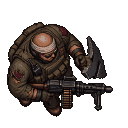
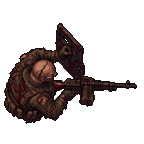
feat: VIPER and THE WARLORD top-down art, aim line and tracer start at the muzzle (§16.16, §16.11) (#62)
* art: VIPER and Warlord redrawn top-down (rotate freely); pivots and muzzle pixels in docs/art/*_meta.json

* art: Warlord phase 3 face turned toward aim; pivot now (31,86)

* feat: VIPER and THE WARLORD top-down art, plain rotation, aim line and tracer from the muzzle (§16.16, §16.11)

* fix: VIPER and THE WARLORD fire from the drawn muzzle, no unseen rounds (§16.16, §16.11)

---------

diff --git a/src/render/renderer.ts b/src/render/renderer.ts
@@ -14,6 +14,7 @@ import { BONE_WHITE, innerWhite, outlined, silhouette } from './bake';
 import { bossFlashAlpha } from './boss-flash';
 import { smokeAlpha, smokeScale } from './smoke';
 import { CRATER_LOOK, HAMMER_CHARGE_FRAME_MS, craterAlpha, hammerRotation } from './hammer';
+import { muzzleAt, streakFromMuzzle, type Muzzle } from './muzzle';
 import { DamageNumbers } from './damage-numbers';
 
 const ART = [
@@ -235,8 +236,8 @@ const BOSS_ART: Record<Target['style'], BossArt> = {
     open: 'hammer_t1_open_00',
   },
   gunner: {
-    size: 96,
-    pivot: { x: 30, y: 48 },
+    size: 148,
+    pivot: { x: 36, y: 72 },
     idle: 'viper_t1_idle_00',
     walk: ['viper_t1_walkA_00', 'viper_t1_idle_00', 'viper_t1_walkB_00', 'viper_t1_idle_00'],
     windup: null,
@@ -252,8 +253,8 @@ const BOSS_ART: Record<Target['style'], BossArt> = {
     open: null,
   },
   warlord: {
-    size: 128,
-    pivot: { x: 52, y: 64 },
+    size: 144,
+    pivot: { x: 31, y: 86 },
     idle: 'warlordfinal_t1_idle_00',
     walk: ['warlordfinal_t1_walkA_00', 'warlordfinal_t1_idle_00', 'warlordfinal_t1_walkB_00', 'warlordfinal_t1_idle_00'],
     windup: 'warlordfinal_t1_windup_00',
@@ -348,6 +349,8 @@ export class Renderer {
   private pickups!: Pool;
   private enemies!: Pool;
   private enemyBullets!: Pool;
+  /** The boss's muzzle this frame (overhead art: the gun reaches past his body), for the aim line and tracer. */
+  private muzzle: Muzzle | null = null;
   private bullets!: Pool;
   private blasts!: Pool;
   private mines!: Pool;
@@ -515,6 +518,7 @@ export class Renderer {
     const fl = this.warlordFlash;
     s.visible = !!b && b.hp > 0;
     fl.visible = false;
+    this.muzzle = null;
     if (!b || b.hp <= 0) return;
     const set = BOSS_ART[BOSSES[b.target].style];
     let art: ArtId;
@@ -557,13 +561,14 @@ export class Renderer {
       fl.anchor.set(set.pivot.x / set.size, set.pivot.y / set.size);
     }
     const r = bossRadius(b);
+    this.muzzle = muzzleAt(art, s.x, s.y, s.rotation);
     if (b.aimT >= 0) {
       // The aim line (Artist, PR #23): 1 px #FF4A1C, half alpha while it tracks, full alpha once locked.
       const locked = b.aimT >= VIPER.burst.trackSec;
       const len = 320;
       this.fx
         // Pixel centres (+0.5): a 1 px line on whole-pixel edges falls between pixels and vanishes without antialiasing.
-        .moveTo(Math.round(b.x + b.aimX * r) + 0.5, Math.round(b.y + b.aimY * r) + 0.5)
+        .moveTo(Math.round(this.muzzle?.x ?? b.x + b.aimX * r) + 0.5, Math.round(this.muzzle?.y ?? b.y + b.aimY * r) + 0.5)
         .lineTo(Math.round(b.x + b.aimX * len) + 0.5, Math.round(b.y + b.aimY * len) + 0.5)
         .stroke({ color: TELEGRAPH_COLOR, width: 1, alpha: locked ? 1 : 0.5 });
     }
@@ -628,7 +633,9 @@ export class Renderer {
     for (const b of w.enemyBullets) {
       if (!b.tracer) continue;
       const sp = Math.hypot(b.vx, b.vy) || 1;
-      const len = VIPER.tracerLen;
+      // Sim rounds leave his body centre; the streak (and the round, below) starts at the rifle's muzzle.
+      const len = this.muzzle ? streakFromMuzzle(b.x, b.y, b.vx, b.vy, this.muzzle, VIPER.tracerLen) : VIPER.tracerLen;
+      if (len <= 0) continue;
       const x0 = Math.round(b.x);
       const y0 = Math.round(b.y);
       const x1 = Math.round(b.x - (b.vx / sp) * len);
@@ -774,7 +781,12 @@ export class Renderer {
     this.drawSmokes(w);
     this.drawTracers(w);
 
-    w.enemyBullets.forEach((b, i) => this.enemyBullets.get(i, this.tex.bullet_enemy_00).position.set(Math.round(b.x), Math.round(b.y)));
+    const m = this.muzzle;
+    w.enemyBullets.forEach((b, i) => {
+      const sp = this.enemyBullets.get(i, this.tex.bullet_enemy_00);
+      sp.position.set(Math.round(b.x), Math.round(b.y));
+      sp.visible = !(b.tracer && m && streakFromMuzzle(b.x, b.y, b.vx, b.vy, m, 1) < 0); // still inside VIPER's rifle
+    });
     this.enemyBullets.hideFrom(w.enemyBullets.length);
     w.bullets.forEach((b, i) => this.bullets.get(i, this.tex.bullet_player_00).position.set(Math.round(b.x), Math.round(b.y)));
     this.bullets.hideFrom(w.bullets.length);

diff --git a/src/render/muzzle.ts b/src/render/muzzle.ts
@@ -1,0 +1,52 @@
+import viperMeta from '../../docs/art/viper_meta.json';
+import warlordMeta from '../../docs/art/warlord_meta.json';
+
+/**
+ * Where each gun frame's barrel ends (Artist, art/bosses-topdown: docs/art/*_meta.json). Sprites are drawn from
+ * overhead facing right at rotation 0, so the aim line and VIPER's tracer start at the muzzle, not at the body.
+ */
+interface ArtMeta {
+  size: number;
+  pivot: number[];
+  frames: Record<string, { muzzle?: number[] }>;
+}
+const META: ArtMeta[] = [viperMeta, warlordMeta];
+export const BOSS_MUZZLE: Record<string, [number, number]> = {};
+for (const m of META)
+  for (const [id, f] of Object.entries(m.frames)) if (f.muzzle) BOSS_MUZZLE[id] = [f.muzzle[0] - m.pivot[0], f.muzzle[1] - m.pivot[1]];
+
+/** A muzzle point in world space, with the body pivot (ox, oy) it hangs off. */
+export interface Muzzle {
+  x: number;
+  y: number;
+  ox: number;
+  oy: number;
+}
+
+/** The muzzle of frame `art` in world space, for a sprite at (x, y) turned by `rotation`; null when it has no gun. */
+export function muzzleAt(art: string, x: number, y: number, rotation: number): Muzzle | null {
+  const o = BOSS_MUZZLE[art];
+  if (!o) return null;
+  const c = Math.cos(rotation);
+  const s = Math.sin(rotation);
+  return { x: x + o[0] * c - o[1] * s, y: y + o[0] * s + o[1] * c, ox: x, oy: y };
+}
+
+/**
+ * How much of a round's trailing streak to draw: up to `len`, but never back past the muzzle it left. Negative while
+ * the round is still behind the muzzle (the sim fires from his body centre), and then it isn't drawn at all.
+ */
+export function streakFromMuzzle(
+  bx: number,
+  by: number,
+  vx: number,
+  vy: number,
+  muzzle: { x: number; y: number; ox: number; oy: number },
+  len: number,
+): number {
+  // Only rounds that just left him: one far out keeps its full streak even after he turns or teleports.
+  if (Math.hypot(bx - muzzle.ox, by - muzzle.oy) > Math.hypot(muzzle.x - muzzle.ox, muzzle.y - muzzle.oy) + len) return len;
+  const sp = Math.hypot(vx, vy) || 1;
+  const t = ((bx - muzzle.x) * vx + (by - muzzle.y) * vy) / sp;
+  return Math.min(len, t);
+}

diff --git a/tests/muzzle.test.ts b/tests/muzzle.test.ts
@@ -1,0 +1,35 @@
+import { describe, expect, it } from 'vitest';
+import viperMeta from '../docs/art/viper_meta.json';
+import { BOSS_MUZZLE, muzzleAt, streakFromMuzzle } from '../src/render/muzzle';
+
+describe('boss muzzle points (art/bosses-topdown)', () => {
+  it('has a muzzle for every VIPER and Warlord gun frame', () => {
+    expect(Object.keys(BOSS_MUZZLE).filter((k) => k.startsWith('viper_')).length).toBe(Object.keys(viperMeta.frames).length);
+    expect(BOSS_MUZZLE.warlordfinal_t1_aim_00).toBeDefined();
+  });
+  it('turns with the sprite', () => {
+    const [ox, oy] = BOSS_MUZZLE.viper_t1_fire_00;
+    const r = muzzleAt('viper_t1_fire_00', 0, 0, 0)!;
+    expect(r.x).toBeCloseTo(ox);
+    expect(r.y).toBeCloseTo(oy);
+    const d = muzzleAt('viper_t1_fire_00', 10, 20, Math.PI / 2)!;
+    expect(d.x).toBeCloseTo(10 - oy);
+    expect(d.y).toBeCloseTo(20 + ox);
+    expect(muzzleAt('hammer_t1_idle_00', 0, 0, 0)).toBeNull();
+  });
+  it('never trails a round back past the muzzle', () => {
+    const m = { x: 100, y: 0, ox: 0, oy: 0 };
+    expect(streakFromMuzzle(90, 0, 5, 0, m, 30)).toBeLessThan(0); // still inside the rifle
+    expect(streakFromMuzzle(110, 0, 5, 0, m, 30)).toBeCloseTo(10);
+    expect(streakFromMuzzle(300, 0, 5, 0, m, 30)).toBe(30);
+    expect(streakFromMuzzle(-300, 0, -5, 0, m, 30)).toBe(30); // a round fired before he turned keeps its streak
+  });
+});
+
+describe('boss rounds leave the drawn muzzle (Designer: no unseen bullets)', () => {
+  it('matches the fire and aim frames in the art meta', async () => {
+    const { BOSSES } = await import('../src/data/boss');
+    expect(BOSSES.find((t) => t.style === 'gunner')!.muzzle).toEqual(BOSS_MUZZLE.viper_t1_fire_00);
+    expect(BOSSES.find((t) => t.style === 'warlord')!.muzzle).toEqual(BOSS_MUZZLE.warlordfinal_t1_aim_00);
+  });
+});

diff --git a/src/data/boss.ts b/src/data/boss.ts
@@ -8,6 +8,8 @@ export interface Target {
   damageScale: number; // charge, bullet and mine damage (contact damage is set per attack style)
   final: boolean; // killing him ends the contract
   style: 'charger' | 'gunner' | 'warlord'; // which attack set he fights with
+  /** His rounds leave the gun's muzzle, this far ahead of (x) and beside (y) his body pivot at facing 0 (Artist's overhead art, docs/art/*_meta.json). */
+  muzzle?: [number, number];
   radius: number; // body and hit radius, px (scales with his sprite: 30 for 96x96)
   arenaScale?: number; // design.md 16.16: arena size vs the screen (default 1 = frozen cam; >1 = a big arena the camera follows)
 }
@@ -18,8 +20,18 @@ export interface Target {
 export const BOSSES: Target[] = [
   { name: 'LT. HAMMER', atSec: 300, hp: 7000, damageScale: 1, final: false, style: 'charger', radius: 30 },
   // design.md 16.16: VIPER fights in a big arena — a sniper you hunt across open ground (camera follows).
-  { name: 'LT. VIPER', atSec: 540, hp: 13000, damageScale: 1.25, final: false, style: 'gunner', radius: 16, arenaScale: 2.6 },
-  { name: 'THE WARLORD', atSec: 780, hp: 45000, damageScale: 1.5, final: true, style: 'warlord', radius: 40 }, // 128x128
+  {
+    name: 'LT. VIPER',
+    atSec: 540,
+    hp: 13000,
+    damageScale: 1.25,
+    final: false,
+    style: 'gunner',
+    radius: 16,
+    arenaScale: 2.6,
+    muzzle: [93, -5],
+  },
+  { name: 'THE WARLORD', atSec: 780, hp: 45000, damageScale: 1.5, final: true, style: 'warlord', radius: 40, muzzle: [106, -3] }, // 128x128
 ];
 
 /**

diff --git a/src/sim/boss.ts b/src/sim/boss.ts
@@ -272,9 +272,13 @@ function endCharge(b: Boss, h: BossHost): void {
 
 function shoot(b: Boss, h: BossHost, angle: number, speed: number, damage: number, range: number, tracer = false): void {
   if (h.enemyBullets.length >= CAPS.enemyBullets) return;
+  // Fired from the drawn muzzle (no unseen round inside his rifle), turned with the sprite.
+  const m = BOSSES[b.target].muzzle ?? [0, 0];
+  const c = Math.cos(b.facing);
+  const s = Math.sin(b.facing);
   h.enemyBullets.push({
-    x: b.x,
-    y: b.y,
+    x: b.x + m[0] * c - m[1] * s,
+    y: b.y + m[0] * s + m[1] * c,
     vx: Math.cos(angle) * speed,
     vy: Math.sin(angle) * speed,
     rangeLeft: range,
